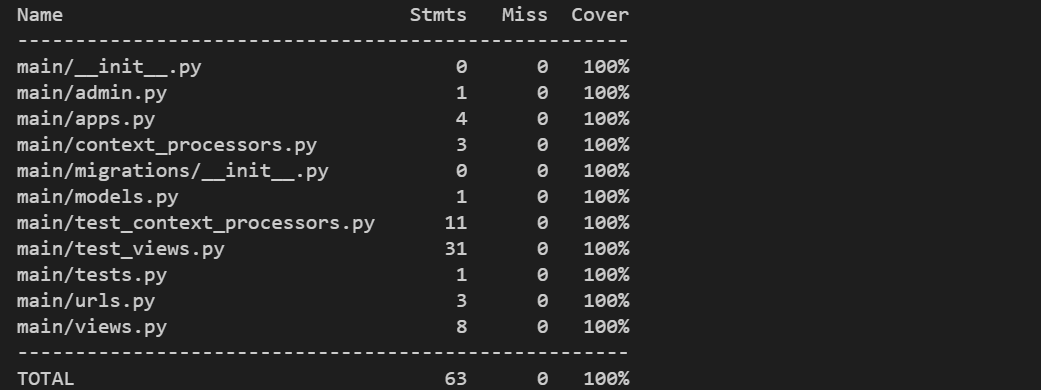
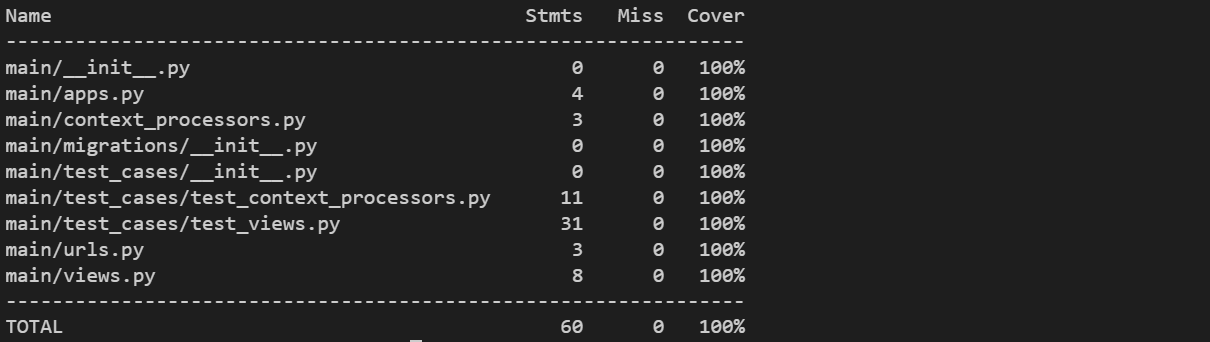
Delete empty files, delete information from testing about tjose files and fix tests

diff --git a/tutor_dashboard/test_cases/test_view_schedule.py b/tutor_dashboard/test_cases/test_view_schedule.py
@@ -235,10 +235,6 @@ class ScheduleViewTests(TestCase):
         self.client.login(username="student", password="password")
         response = self.client.get(self.url)
         self.assertEqual(response.status_code, 200)
-        self.assertEqual(
-            response.context['form'].data['study_group'],
-            self.study_group
-        )
 
     def test_post_request_redirects_with_filter_params(self):
         """

diff --git a/tutor_dashboard/test_cases/test_view_schedule_template.py b/tutor_dashboard/test_cases/test_view_schedule_template.py
@@ -190,7 +190,7 @@ class ScheduleTemplateViewTests(TestCase):
         self.assertEqual(response.status_code, 200)
         self.assertTemplateUsed(
             response,
-            'tutor_dashboard/schedule-templates.html'
+            'tutor_dashboard/schedule_templates.html'
         )
 
         # Check the filter form instance

diff --git a/main/test_cases/test_context_processors.py b/main/test_cases/test_context_processors.py
@@ -1,6 +1,6 @@
 from django.test import RequestFactory, TestCase
 from datetime import datetime
-from .context_processors import current_year
+from main.context_processors import current_year
 
 
 class ContextProcessorsTests(TestCase):

diff --git a/TESTING.md b/TESTING.md
@@ -543,8 +543,6 @@ Notes: Each Python file contains a newline at the end of the file.
   ![validator - forms.py](documentation/dictionaries/pep8/forms.png)
 - models.py
   ![validator - models.py](documentation/dictionaries/pep8/models.png)
-- tests.py
-  ![validator - tests.py](documentation/dictionaries/pep8/tests.png)
 - test_cases/test-admin.py
   ![validator - test_cases/test-admin.py](documentation/dictionaries/pep8/test-cases-test-admin.png)
 - test_cases/test-forms.py
@@ -553,16 +551,10 @@ Notes: Each Python file contains a newline at the end of the file.
   ![validator - test_cases/test-models.py](documentation/dictionaries/pep8/test-cases-test-models.png)
 
 **main**
-- admin.py
-  ![validator - admin.py](documentation/main/pep8/admin.png)
 - apps.py
   ![validator - apps.py](documentation/main/pep8/apps.png)
 - context-processors.py
   ![validator - context-processors.py](documentation/main/pep8/context-processors.png)
-- models.py
-  ![validator - models.py](documentation/main/pep8/models.png)
-- tests.py
-  ![validator - tests.py](documentation/main/pep8/tests.png)
 - urls.py
   ![validator - urls.py](documentation/main/pep8/urls.png)
 - views.py
@@ -570,31 +562,19 @@ Notes: Each Python file contains a newline at the end of the file.
 - test-cases/test-context-processors.py
   ![validator - test-cases/test-context-processors.py](documentation/main/pep8/test-cases-test-context-processors.png)
 - test-cases/test-views.py
-  ![validator - test-cases/test-views.py](documentation/main/p8p/test-cases-test-views.png)
+  ![validator - test-cases/test-views.py](documentation/main/pep8/test-cases-test-views.png)
 
 **student_dashboard**
-- admin.py
-  ![validator - admin.py](documentation/student-dashboard/pep8/admin.png)
 - apps.py
   ![validator - apps.py](documentation/student-dashboard/pep8/apps.png)
-- models.py
-  ![validator - models.py](documentation/student-dashboard/pep8/models.png)
-- tests.py
-  ![validator - tests.py](documentation/student-dashboard/pep8/tests.png)
 - urls.py
   ![validator - urls.py](documentation/student-dashboard/pep8/urls.png)
 - views.py
   ![validator - views.py](documentation/student-dashboard/pep8/views.png)
 
 **tutor_dashboard**
-- admin.py
-  ![validator - admin.py](documentation/tutor-dashboard/pep8/admin.png)
 - apps.py
   ![validator - apps.py](documentation/tutor-dashboard/pep8/apps.png)
-- models.py
-  ![validator - models.py](documentation/tutor-dashboard/pep8/models.png)
-- tests.py
-  ![validator - tests.py](documentation/tutor-dashboard/pep8/tests.png)
 - urls.py
   ![validator - urls.py](documentation/tutor-dashboard/pep8/urls.png)
 - test_cases/test_view_schedule_template.py
@@ -625,8 +605,6 @@ Notes: Each Python file contains a newline at the end of the file.
   ![validator - models.py](documentation/users/pep8/models.png)
 - signals.py
   ![validator - signals.py](documentation/users/pep8/signals.png)  
-- tests.py
-  ![validator - tests.py](documentation/users/pep8/tests.png)
 - urls.py
   ![validator - urls.py](documentation/users/pep8/urls.png)
 - views.py
